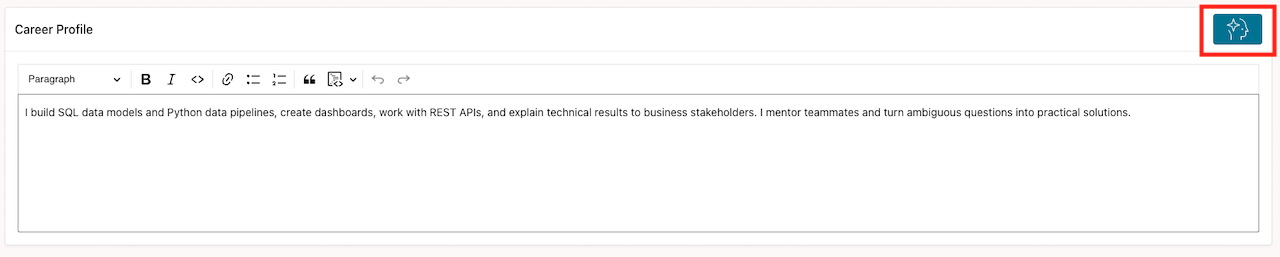
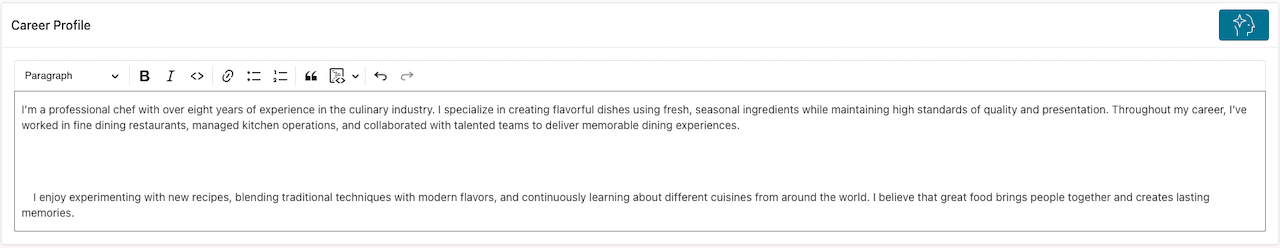
WMS 12157 markdown updates

diff --git a/adb-graph/career-skills-graphs/ai-enhanced-fit/ai-enhanced-fit.md b/adb-graph/career-skills-graphs/ai-enhanced-fit/ai-enhanced-fit.md
@@ -16,43 +16,87 @@ In this lab, you will:
 
 ## Task 1: Compare semantically related skills
 
-1. Open [ai-fit-query.sql](files/ai-fit-query.sql) in Database Actions and run the first query. It uses small illustrative vectors.
+1. Switch back to OCI and click Database actions -> SQL.
 
-2. Read the results from the smallest distance to the largest. A smaller cosine distance means a closer match in this example.
+    ![Open SQL.](images/open-sql.png " ")
 
-3. Compare the signals:
+2. Ensure you are logged in with your GHC_USER account. If you're logged in with ADMIN, log out and log back in using your GHC_USER account.
+
+3. Run the first query. It uses small illustrative vectors.
+
+    ```sql
+    WITH candidate_skills (skill_name, skill_embedding) AS (
+    SELECT 'SQL analytics',       TO_VECTOR('[0.96, 0.12, 0.01]') FROM dual UNION ALL
+    SELECT 'data storytelling',  TO_VECTOR('[0.72, 0.61, 0.04]') FROM dual UNION ALL
+    SELECT 'REST integration',   TO_VECTOR('[0.15, 0.08, 0.98]') FROM dual UNION ALL
+    SELECT 'team mentoring',     TO_VECTOR('[0.54, 0.86, 0.09]') FROM dual
+        ), profile_vector AS (
+    SELECT TO_VECTOR('[0.90, 0.18, 0.02]') AS embedding
+    FROM dual
+    )
+    SELECT c.skill_name,
+       ROUND(VECTOR_DISTANCE(c.skill_embedding, p.embedding, COSINE), 4) AS distance
+    FROM   candidate_skills c
+       CROSS JOIN profile_vector p
+    ORDER BY distance
+    FETCH FIRST 3 ROWS ONLY;
+    ```
+
+4. Read the results from the smallest distance to the largest. A smaller cosine distance means a closer match in this example.
+
+    ![Run first script](images/vector.png " ")
+
+5. Compare the signals:
 
     - The graph follows explicit relationships.
     - Vector search finds related meaning even when labels differ.
     - A useful recommendation combines both signals with role and position filters.
 
-4. Ask the instructor which table and vector column hold the production embeddings. Then adapt this pattern:
-
-    ```sql
-    SELECT skill_name,
-           VECTOR_DISTANCE(skill_embedding, :profile_embedding, COSINE) AS distance
-    FROM   career_skills
-    ORDER BY distance
-    FETCH FIRST 5 ROWS ONLY;
-    ```
-
 ## Task 2: Check the AI profile
 
-1. Run the profile query in [ai-fit-query.sql](files/ai-fit-query.sql). Confirm that `GHC_CAREER_AI` is enabled in the `GHC_USER` schema. `USER_CLOUD_AI_PROFILES` shows profiles in the connected user's schema.
+1. Run the profile query
 
-2. If the profile is missing, finish with the graph and vector results. Ask the instructor to configure the credential, profile, and outbound access. Do not paste a personal API key into the worksheet.
+    ```sql
+    SELECT profile_name,
+       status
+    FROM   user_cloud_ai_profiles
+    WHERE  UPPER(profile_name) = 'GENAI_PROFILE';
+    ```
 
-3. Use `DBMS_CLOUD_AI.GENERATE` for the programmatic call. The SQL command-line `SELECT AI` form is not the path for Database Actions or APEX.
+2. Confirm that `GENAI_PROFILE` is enabled in the `GHC_USER` schema. `USER_CLOUD_AI_PROFILES` shows profiles in the connected user's schema.
+
+  ![Run second script](images/profile.png " ")
 
 ## Task 3: Explain one role with evidence
 
-1. Copy the role from Lab 2 and the top related skills from Task 1. Replace the sample text in [ai-fit-query.sql](files/ai-fit-query.sql), then run the explanation example.
+1. Then run the explanation example.
+
+    ```sql
+        SELECT DBMS_CLOUD_AI.GENERATE(
+         prompt       => q'[
+    Using only the evidence below, explain whether the candidate has a plausible
+    path toward the target role. Return: (1) two evidence-based fit reasons,
+    (2) two skills to strengthen, and (3) one next action. Do not invent
+    credentials, employers, or experience.
+
+    Target role: Data Platform Engineer
+    Observed skills: SQL analytics; Python data pipelines; REST integration
+    Graph path evidence: skill -> data integration -> data platform engineer
+    Vector evidence: SQL analytics is the closest semantic match.
+    ]',
+         profile_name => 'GENAI_PROFILE',
+         action       => 'chat'
+       ) AS explanation
+    FROM dual;
+    ```
 
 2. Check for three parts:
 
     - Two evidence-based reasons for fit.
     - Two skills to strengthen.
     - One concrete next action.
+
+  ![Run third script](images/explaination.png " ")
 
 3. Compare the answer with the graph. Treat the explanation as interpretation, not proof. Keep the graph paths and vector distances visible.
 
@@ -66,4 +110,4 @@ In this lab, you will:
 
 ## Acknowledgements
 
-* **Last Updated By/Date** - September 23, 2026
+- **Last Updated By/Date** - Denise Myrick, Oracle AI Database PM, October 2026

diff --git a/adb-graph/career-skills-graphs/graph-exploration/graph-exploration.md b/adb-graph/career-skills-graphs/graph-exploration/graph-exploration.md
@@ -16,10 +16,31 @@ In this lab, you will:
 
 ## Task 1: Submit a skills profile
 
-1. In **Career Explorer**, enter your experience or use this sample:
+1. In **Career Explorer**, enter your experience or use one of these samples:
+
+    ```text
+    I’m a professional chef with over eight years of experience in the culinary industry. I specialize in creating flavorful dishes using fresh, seasonal ingredients while maintaining high standards of quality and presentation. Throughout my career, I’ve worked in fine dining restaurants, managed kitchen operations, and collaborated with talented teams to deliver memorable dining experiences.
+
+    I enjoy experimenting with new recipes, blending traditional techniques with modern flavors, and continuously learning about different cuisines from around the world. I believe that great food brings people together and creates lasting memories.
+    ```
+
+    ```text
+    I’m a Marketing Manager with over six years of experience in developing and executing marketing strategies that drive brand awareness, customer engagement, and business growth. I have experience managing both digital and traditional marketing campaigns, conducting market research, and working closely with sales and product teams to achieve organizational goals.
+
+    I’m passionate about understanding customer behavior and using data-driven insights to create effective marketing campaigns. Throughout my career, I’ve led successful product launches, managed social media and content marketing initiatives, and optimized campaign performance to maximize return on investment.
+    ```
 
     ```text
     I build SQL data models and Python data pipelines, create dashboards, work with REST APIs, and explain technical results to business stakeholders. I mentor teammates and turn ambiguous questions into practical solutions.
+    ```
+
+    ```text
+    I have experience planning and delivering engaging music lessons for children
+    and adults in school and private settings. I teach guitar, voice, piano, music
+    theory, choral conducting, general music, and classroom music. I have experience
+    with lesson planning, classroom management, Google Classroom, Google Meet,
+    Microsoft Teams, and educational technology. I enjoy music education and
+    lifelong learning.
     ```
 
 2. Select **Explore career options**. Wait for the results to refresh.
@@ -38,30 +59,39 @@ In this lab, you will:
 
 2. Find an indirect path. A two-hop or three-hop path shows how a skill reaches a role through an intermediate relationship.
 
-3. Select **Career Fit Details**. Note the **Good fit**, **Needs improvement**, and **Suggestions** sections.
+3. Review **Career Fit Details**. Note the **Good fit**, **Needs improvement**, and **Suggestions** sections.
+
+    ![Career fit details.](images/career-fit-details.png " ")
 
 ## Task 3: Inspect the query behind the visualization
 
-1. Open Database Actions in a second tab as `GHC_USER`. Open **SQL Worksheet** and run `graph-lab-queries.sql`, which you downloaded in the last lab.
+1. Switch back to OCI and click Database actions -> SQL.
 
-2. Find the latest successful row for task order 3. Compare its SQL preview with the graph you explored.
+    ![Open SQL.](images/open-sql.png " ")
+
+2. Ensure you are logged in with your GHC_USER account. If you're logged in with ADMIN, log out and log back in using your GHC_USER account.
 
 3. Review the variable-length pattern below.
 
     ```sql
-    SELECT DISTINCT starting_skill, target_role
+    SELECT skill_name, target_role
     FROM GRAPH_TABLE (
-      career_skills_graph
-      MATCH
-        (s IS skill)
-          ((x) -[e IS connects_to]-> (y)){1,3}
-        (r IS role)
-      COLUMNS (
-        s.skill_name AS starting_skill,
-        r.role_name  AS target_role
+    onet_graph
+    MATCH
+      (skill_text IS CONTENT_ELEMENT)
+        -[content_edge IS SOFTWARE_SKILL_FOR_CONTENT]-
+      (skill IS SOFTWARE_SKILL)
+        -[occupation_edge IS SOFTWARE_SKILL_FOR_OCCUPATION]-
+      (role IS OCCUPATION)
+    COLUMNS (
+      skill_text.element_name AS skill_name,
+      role.title              AS target_role
       )
-    );
+    )
+    FETCH FIRST 50 ROWS ONLY;
     ```
+
+    ![Graph pattern matching](images/pattern-matching.png " ")
 
 4. Return to APEX and answer: **Which role became visible because the graph followed an intermediate connection?**
 
@@ -72,4 +102,4 @@ In this lab, you will:
 
 ## Acknowledgements
 
-* **Last Updated By/Date** - Denise Myrick, September 2026
+- **Last Updated By/Date** - Denise Myrick, Oracle Database Product Management, October 2026

diff --git a/adb-graph/career-skills-graphs/introduction/introduction.md b/adb-graph/career-skills-graphs/introduction/introduction.md
@@ -2,15 +2,13 @@
 
 ## Introduction
 
+### About this Workshop
+
 Your job title describes where you work today. It does not show every role your experience can support. This workshop uses a career skills graph to connect skills, occupations, and open positions.
 
 You will use Oracle Autonomous AI Database, Database Actions, and an APEX Career Explorer. You will follow multi-hop paths, compare related skills with vector search, and review an AI explanation.
 
-## Get into LiveLabs
-
-1. On this workshop's LiveLabs page, select **Start** and choose **Run on LiveLabs Sandbox**.
-2. Select **Start Workshop Now**, accept the consent prompt, and submit the reservation.
-3. When the sandbox becomes available, select **Launch Workshop**, open **View Login Info**, and use **Launch OCI** or the provided Database Actions link.
+    ![Workshop flow.](images/career-skills-workshop-flow.png " ")
 
 ### Prerequisites
 
@@ -40,4 +38,4 @@ Estimated Workshop Time: 45 minutes
 
 ## Acknowledgements
 
-- **Last Updated By/Date** - Denise Myrick, Oracle AI Database Product Management, September 2026
+- **Last Updated By/Date** - Denise Myrick, Oracle AI Database Product Management, October 2026

diff --git a/adb-graph/career-skills-graphs/setup/setup-sandbox.md b/adb-graph/career-skills-graphs/setup/setup-sandbox.md
@@ -15,7 +15,7 @@ In this lab, you will:
 
 ## Task 1: Download application from Github
 
-1. Navigate to [GitHub](https://github.com/oracle-samples/oracle-graph/tree/master/shared/demos) and download the Career Explorer application and career-skills-queries.sql to your desktop.
+1. Navigate to [GitHub](https://github.com/oracle-samples/oracle-graph/tree/master/shared/demos) and download the Career Explorer application to your desktop.
 
 ## Task 2: Log into APEX
 
@@ -39,7 +39,7 @@ In this lab, you will:
 
 1. Select **App Builder > Import**.
 
-    ![Click App builder](images/apex-login.png " ")
+    ![Click App builder](images/app-builder.png " ")
     ![Click import](images/apex-import.png " ")
 
 2. Upload the application that you downloaded in Task 1. Click **Next**. 
